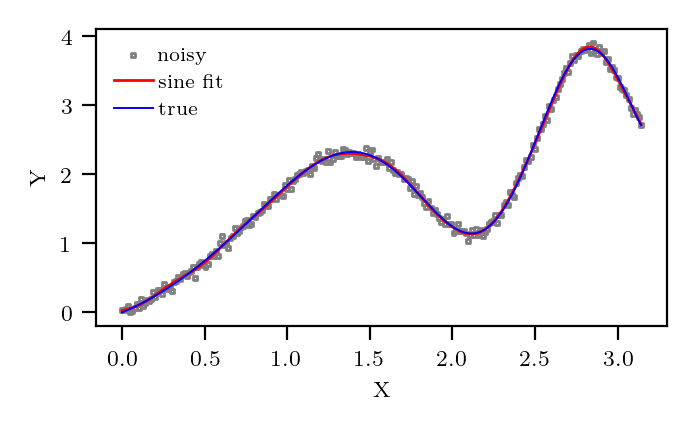
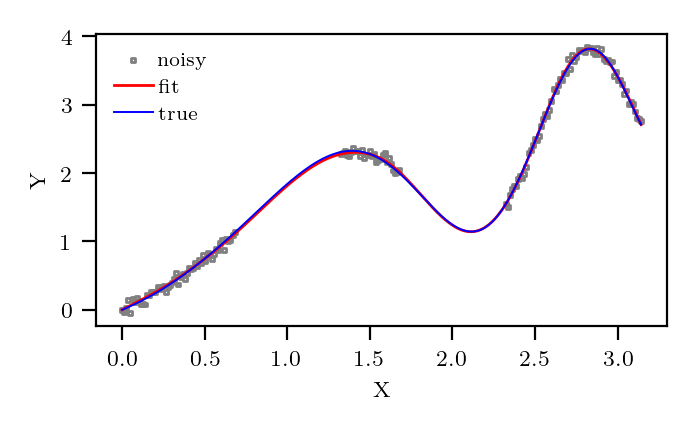
FFT Spline (#6)
Smoothing Splines via a hybrid of  linear + sine basis functions

diff --git a/README.md b/README.md
@@ -154,15 +154,19 @@ savefig("nspline.png")
 
     fit_sine_series(X::Vector, Y::Vector, basis_elements::Integer, noise=0)
 
-fit Y ~ 1 + X + Σ sin(.) according to:
+fit Y ~ 1 + X + Σ sin(.) by minimising Σ (Y - f(x))^2 + lambda * ∫(Δ^order F)^2
 
-    `X` : array N, N number of training points
+    `X` : array N, N number of training points.
 
-    `Y` : array N, N number of training points
+    `Y` : array N, N number of training points.
 
-    `basis_elements` : number of sine terms
+    `basis_elements` : number of sine terms.
     
-    `noise` : noise filtering according to Wiener method, default to 0 (off)
+    Keyword arguments:
+    
+    `lambda` : intensity of regularization.
+    
+    `order` : derivative to regularise.
 
 returns a callable function.
 
@@ -170,17 +174,20 @@ returns a callable function.
 
 ```julia
 using PyPlot, KissSmoothing
-t = LinRange(0,pi,250)
-ty = sin.(t.^2) .+ t
-y = ty .+ randn(length(t)) .*0.05
-fn = fit_sine_series(t,y,20)
-scatter(t, y, color="gray",s=2,label="noisy")
-plot(t, fn.(t), color="red",lw=1.,label="sine fit")
-plot(t,ty, color="blue",lw=0.7,label="true")
+fg(x) = sin(x^2) + x
+x = collect(LinRange(0,pi,250))
+xc = identity.(x)
+filter!(x->(x-1)^2>0.1, x)
+filter!(x->(x-2)^2>0.1, x)
+y = fg.(x) .+ randn(length(x)) .*0.05
+fn = fit_sine_seris(x,y,20, lambda = 0.00001)
+scatter(x, y, color="gray",s=2,label="noisy")
+plot(xc, fn.(xc), color="red",lw=1.,label="fit")
+plot(xc,fg.(xc), color="blue",lw=0.7,label="true")
 xlabel("X")
 ylabel("Y")
 legend()
 tight_layout()
 savefig("sine_fit.png")
 ```
-![sine_fit.png](sine_fit.png "Plot of NSpline estimation")
+![sine_fit.png](sine_fit.png "Plot of FFT Spline estimation")
